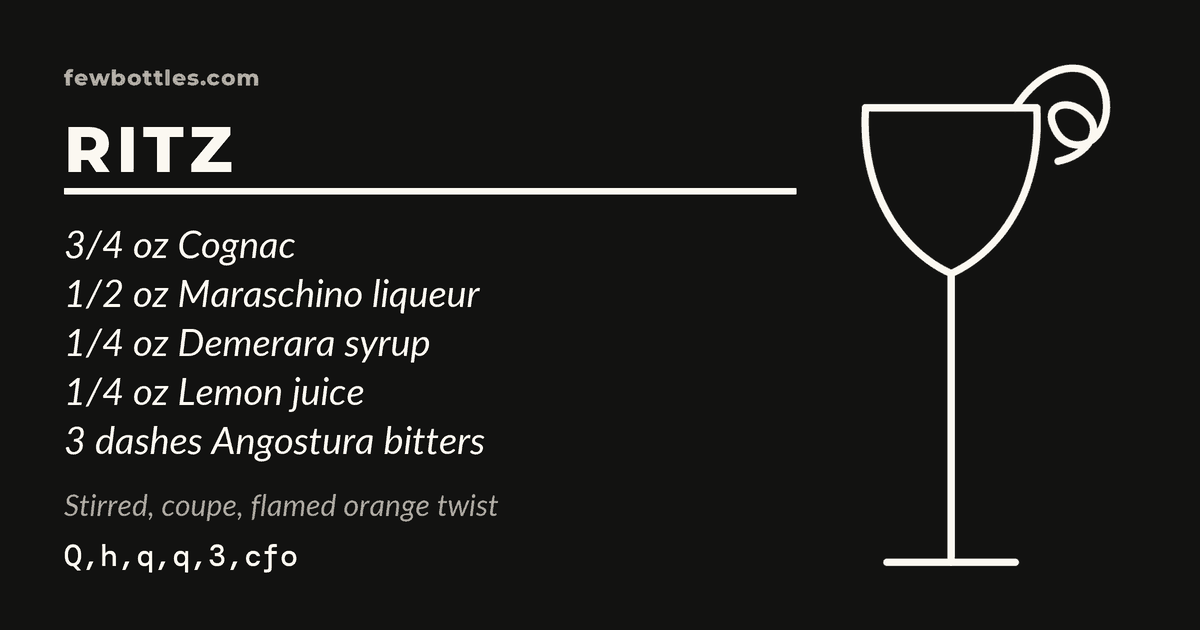
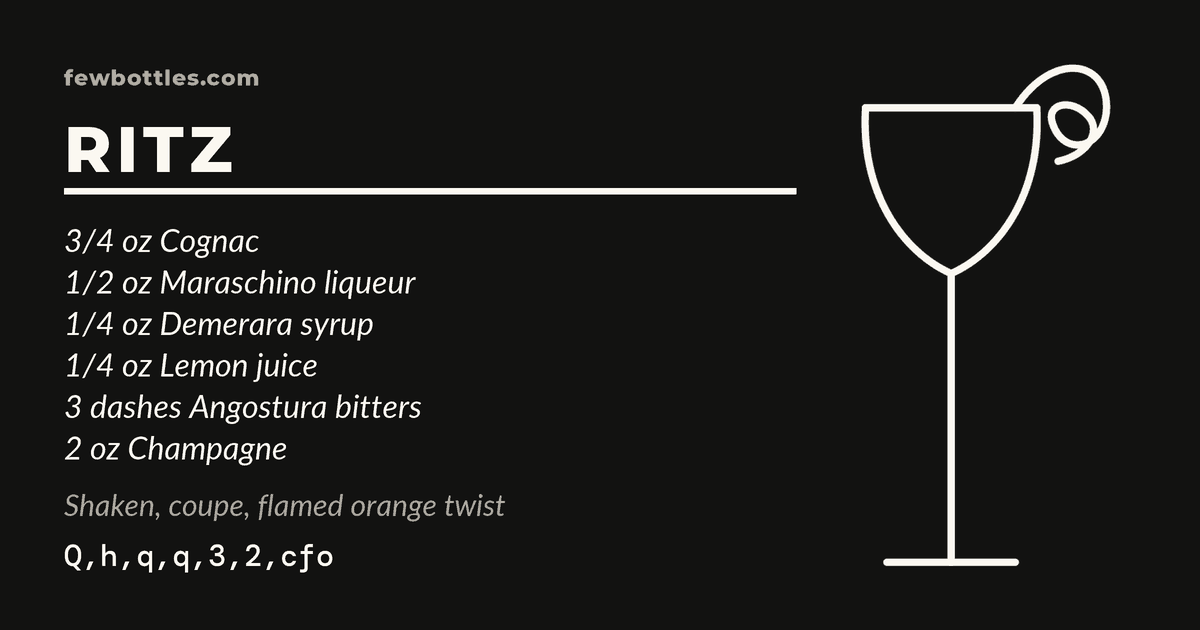
Restore the Ritz Champagne top, equal segments under 340px, amount column widths, side safe-area insets, storage event listener
data/cocktails.json: ritz is Q,h,q,q,3,2,cfo, method shaken, with 2 oz Champagne as the last pour; taste rewritten and one history sentence added; the entry moves into the shaken cognac section. kin.json (Ritz now Sparkling), llms.txt, llms-full.txt, 11 drink pages, sitemap.xml and assets/cards/ritz.png regenerated.

app.css: under 340px wide .seg--wide .seg__b tracking is .05em so the five segments are equal width; the stale Families comment now says Shapes. .pour amount column is 84px on screen and 54pt in print, eleven DM Mono advances for 2 barspoons. --pad is max(20px, env(safe-area-inset-left), env(safe-area-inset-right)) and .tabbar takes the side insets as padding-inline.

app.js: a storage listener added after boot reloads the five stores, re-applies print flags, drops Undo when the shelf or brands changed, and repaints through afterShelf; it never saves. loadPrintOpts reads a missing store as the defaults.

Closes #85. Closes #94. Closes #95. Closes #96. Closes #97.

Changed region(s): [[0.0308, 0.3619, 0.4008, 0.754], [0.0617, 0.7841, 0.4317, 0.8444], [0.185, 0.8746, 0.2775, 0.9048]]

diff --git a/drink/ritz/index.html b/drink/ritz/index.html
@@ -11,7 +11,7 @@ j=d.createElement(s),dl=l!='dataLayer'?'&l='+l:'';j.async=true;j.src=
 <!-- End Google Tag Manager -->
 <meta name="viewport" content="width=device-width, initial-scale=1, viewport-fit=cover">
 <title>Ritz, few bottles</title>
-<meta name="description" content="Ritz: 3/4 oz Cognac, 1/2 oz Maraschino liqueur, 1/4 oz Demerara syrup, 1/4 oz Lemon juice, 3 dashes Angostura bitters. Stirred, coupe, flamed orange twist.">
+<meta name="description" content="Ritz: 3/4 oz Cognac, 1/2 oz Maraschino liqueur, 1/4 oz Demerara syrup, 1/4 oz Lemon juice, 3 dashes Angostura bitters, 2 oz Champagne. Shaken, coupe, flamed orange twist.">
 <meta name="author" content="Craig Johnston">
 <meta name="robots" content="index, follow">
 <meta name="color-scheme" content="dark light">
@@ -26,20 +26,20 @@ j=d.createElement(s),dl=l!='dataLayer'?'&l='+l:'';j.async=true;j.src=
 <meta property="og:locale" content="en_US">
 <meta property="og:url" content="https://fewbottles.com/drink/ritz/">
 <meta property="og:title" content="Ritz">
-<meta property="og:description" content="Ritz: 3/4 oz Cognac, 1/2 oz Maraschino liqueur, 1/4 oz Demerara syrup, 1/4 oz Lemon juice, 3 dashes Angostura bitters. Stirred, coupe, flamed orange twist.">
+<meta property="og:description" content="Ritz: 3/4 oz Cognac, 1/2 oz Maraschino liqueur, 1/4 oz Demerara syrup, 1/4 oz Lemon juice, 3 dashes Angostura bitters, 2 oz Champagne. Shaken, coupe, flamed orange twist.">
 <meta property="og:image" content="https://fewbottles.com/assets/cards/ritz.png">
 <meta property="og:image:type" content="image/png">
 <meta property="og:image:width" content="1200">
 <meta property="og:image:height" content="630">
-<meta property="og:image:alt" content="Ritz, the recipe on a card: 3/4 oz Cognac, 1/2 oz Maraschino liqueur, 1/4 oz Demerara syrup, 1/4 oz Lemon juice, 3 dashes Angostura bitters, stirred, coupe, flamed orange twist.">
+<meta property="og:image:alt" content="Ritz, the recipe on a card: 3/4 oz Cognac, 1/2 oz Maraschino liqueur, 1/4 oz Demerara syrup, 1/4 oz Lemon juice, 3 dashes Angostura bitters, 2 oz Champagne, shaken, coupe, flamed orange twist.">
 <meta property="article:author" content="https://imti.co/">
 <meta name="twitter:card" content="summary_large_image">
 <meta name="twitter:site" content="@cjimti">
 <meta name="twitter:creator" content="@cjimti">
 <meta name="twitter:title" content="Ritz">
-<meta name="twitter:description" content="Ritz: 3/4 oz Cognac, 1/2 oz Maraschino liqueur, 1/4 oz Demerara syrup, 1/4 oz Lemon juice, 3 dashes Angostura bitters. Stirred, coupe, flamed orange twist.">
+<meta name="twitter:description" content="Ritz: 3/4 oz Cognac, 1/2 oz Maraschino liqueur, 1/4 oz Demerara syrup, 1/4 oz Lemon juice, 3 dashes Angostura bitters, 2 oz Champagne. Shaken, coupe, flamed orange twist.">
 <meta name="twitter:image" content="https://fewbottles.com/assets/cards/ritz.png">
-<meta name="twitter:image:alt" content="Ritz, the recipe on a card: 3/4 oz Cognac, 1/2 oz Maraschino liqueur, 1/4 oz Demerara syrup, 1/4 oz Lemon juice, 3 dashes Angostura bitters, stirred, coupe, flamed orange twist.">
+<meta name="twitter:image:alt" content="Ritz, the recipe on a card: 3/4 oz Cognac, 1/2 oz Maraschino liqueur, 1/4 oz Demerara syrup, 1/4 oz Lemon juice, 3 dashes Angostura bitters, 2 oz Champagne, shaken, coupe, flamed orange twist.">
 <script type="application/ld+json">
 {
   "@context": "https://schema.org",
@@ -50,7 +50,7 @@ j=d.createElement(s),dl=l!='dataLayer'?'&l='+l:'';j.async=true;j.src=
       "name": "Ritz",
       "url": "https://fewbottles.com/drink/ritz/",
       "image": "https://fewbottles.com/assets/cards/ritz.png",
-      "description": "Ritz: 3/4 oz Cognac, 1/2 oz Maraschino liqueur, 1/4 oz Demerara syrup, 1/4 oz Lemon juice, 3 dashes Angostura bitters. Stirred, coupe, flamed orange twist.",
+      "description": "Ritz: 3/4 oz Cognac, 1/2 oz Maraschino liqueur, 1/4 oz Demerara syrup, 1/4 oz Lemon juice, 3 dashes Angostura bitters, 2 oz Champagne. Shaken, coupe, flamed orange twist.",
       "author": {
         "@id": "https://fewbottles.com/#person"
       },
@@ -64,19 +64,20 @@ j=d.createElement(s),dl=l!='dataLayer'?'&l='+l:'';j.async=true;j.src=
         "1/2 oz Maraschino liqueur",
         "1/4 oz Demerara syrup",
         "1/4 oz Lemon juice",
-        "3 dashes Angostura bitters"
+        "3 dashes Angostura bitters",
+        "2 oz Champagne"
       ],
       "recipeInstructions": [
         {
           "@type": "HowToStep",
-          "text": "Stir with ice until cold, then strain."
+          "text": "Shake hard with ice, then strain."
         },
         {
           "@type": "HowToStep",
           "text": "Serve: coupe, flamed orange twist."
         }
       ],
-      "keywords": "Cognac, stirred, Daisy"
+      "keywords": "Cognac, shaken, Sparkling"
     },
     {
       "@type": "Person",
@@ -138,26 +139,27 @@ height="0" width="0" style="display:none;visibility:hidden"></iframe></noscript>
 </header>
 <main id="main" class="page__main">
 <article class="page__drink">
-  <p class="page__eyebrow">Cognac, stirred</p>
+  <p class="page__eyebrow">Cognac, shaken</p>
   <h1 class="page__name">Ritz</h1>
-  <p class="page__code"><span class="sr-only">Barline </span>Q,h,q,q,3,cfo</p>
+  <p class="page__code"><span class="sr-only">Barline </span>Q,h,q,q,3,2,cfo</p>
   <ul class="page__pours">
       <li>3/4 oz Cognac</li>
       <li>1/2 oz Maraschino liqueur</li>
       <li>1/4 oz Demerara syrup</li>
       <li>1/4 oz Lemon juice</li>
       <li>3 dashes Angostura bitters</li>
+      <li>2 oz Champagne</li>
     </ul>
-  <p class="page__method">Stir with ice until cold, then strain.</p>
+  <p class="page__method">Shake hard with ice, then strain.</p>
   <p class="page__serve">Coupe, flamed orange twist.</p>
   <p class="page__open"><a class="btn" href="/#drink/ritz">Open in the menu</a></p>
   <section class="page__section">
     <h2>Taste</h2>
-    <p>Three-quarters of an ounce of cognac, so this is a small drink. Half an ounce of maraschino is the sweet and the cherry; a quarter each of demerara and lemon. Three dashes of Angostura is a lot of bark for so little spirit. Stirred, coupe, flamed orange twist.</p>
+    <p>Three-quarters of an ounce of cognac, half an ounce of maraschino for the sweet and the cherry, a quarter each of demerara and lemon, three dashes of Angostura. Shaken, then two ounces of Champagne, so the wine is the biggest pour in the glass. Coupe, flamed orange twist. Dry and bubbly, cherry and bark over a little brandy, with burnt orange on the surface.</p>
   </section>
   <section class="page__section">
     <h2>History</h2>
-    <p>Dale DeGroff built a Ritz Cocktail at Aurora in New York in 1985, later printed in The Craft of the Cocktail (2002) as a tribute to the Ritz drinks of Paris and Madrid: three-quarters cognac, half orange liqueur, a quarter each of maraschino and lemon, topped with Champagne, and a flamed orange twist. This menu keeps the small cognac, the maraschino, the lemon, and the flamed twist. It drops the Champagne and the orange liqueur, adds a quarter of demerara and three dashes of Angostura, and stirs it.</p>
+    <p>Dale DeGroff built a Ritz Cocktail at Aurora in New York in 1985, later printed in The Craft of the Cocktail (2002) as a tribute to the Ritz drinks of Paris and Madrid: three-quarters cognac, half orange liqueur, a quarter each of maraschino and lemon, topped with Champagne, and a flamed orange twist. This menu keeps the small cognac, the maraschino, the lemon, the Champagne, and the flamed twist. It drops the orange liqueur and adds a quarter of demerara and three dashes of Angostura. The printed card left the Champagne off, and the menu restored it in 2026, because three-quarters of an ounce of cognac is DeGroff&#x27;s measure for a drink with two ounces of wine on top.</p>
     <ul class="recipe-refs">
       <li><a href="https://imbibemagazine.com/recipe/ritz-cocktail/" rel="noopener">Imbibe, Ritz Cocktail</a></li>
       <li><a href="https://www.diffordsguide.com/cocktails/recipe/1677/ritz-cocktail" rel="noopener">Difford&#x27;s Guide, Ritz Cocktail</a></li>
@@ -165,14 +167,14 @@ height="0" width="0" style="display:none;visibility:hidden"></iframe></noscript>
   </section>
   <section class="page__section">
     <h2>Same shape, other bottles</h2>
-    <p class="page__note">The Daisy family, with the bottle that changed.</p>
+    <p class="page__note">The Sparkling family, with the bottle that changed.</p>
     <ul class="page__kin">
-    <li><a href="/drink/honeymoon/">Honeymoon</a><span class="page__why">apple brandy, Bénédictine, and orange liqueur for cognac and maraschino liqueur</span></li>
-    <li><a href="/drink/champs-elysees/">Champs-Élysées</a><span class="page__why">Chartreuse and simple syrup for maraschino liqueur and demerara syrup</span></li>
-    <li><a href="/drink/fine-and-dandy/">Fine and Dandy</a><span class="page__why">gin and orange liqueur for cognac and maraschino liqueur</span></li>
-    <li><a href="/drink/pegu-club/">Pegu Club</a><span class="page__why">gin and lime juice for cognac and lemon juice</span></li>
-    <li><a href="/drink/brandy-crusta/">Brandy Crusta</a><span class="page__why">more cognac</span></li>
-    <li><a href="/drink/kings-jubilee/">King&#x27;s Jubilee</a><span class="page__why">light rum for cognac</span></li>
+    <li><a href="/drink/old-cuban/">Old Cuban</a><span class="page__why">aged rum and lime juice for cognac and lemon juice</span></li>
+    <li><a href="/drink/air-mail/">Air Mail</a><span class="page__why">aged rum and lime juice for cognac and lemon juice</span></li>
+    <li><a href="/drink/queen-bee/">Queen Bee</a><span class="page__why">vodka and elderflower liqueur for cognac and maraschino liqueur</span></li>
+    <li><a href="/drink/french-75/">French 75</a><span class="page__why">gin and simple syrup for cognac and demerara syrup</span></li>
+    <li><a href="/drink/seelbach/">Seelbach</a><span class="page__why">bourbon and orange liqueur for cognac and maraschino liqueur</span></li>
+    <li><a href="/drink/champagne-cocktail/">Champagne Cocktail</a><span class="page__why">without lemon juice and maraschino liqueur</span></li>
     </ul>
   </section>
   <p class="page__all"><a href="/">All 185 drinks</a>, and which ones your own shelf pours.</p>

diff --git a/assets/app.css b/assets/app.css
@@ -199,7 +199,11 @@
   --body: "Lato", -apple-system, BlinkMacSystemFont, "Segoe UI", Roboto, sans-serif;
   --mono: "DM Mono", ui-monospace, SFMono-Regular, Menlo, monospace;
 
-  --pad: 20px;
+  /* Every page asks for viewport-fit=cover, so a phone on its side draws
+     under the notch and leaves the inset to the page. All side padding
+     reads this one token, so it clears the inset on both sides. With no
+     inset (a desktop, paper) it is 20px, as it always was. */
+  --pad: max(20px, env(safe-area-inset-left), env(safe-area-inset-right));
   --measure: 660px;
   /* The wide layout is two fixed tracks, not a column that stretches. A
      drink row is a name on the left and its code on the right, and past
@@ -673,13 +677,21 @@ noscript.fallback a { color: var(--brass); }
 .seg__b:last-child { border-right: 0; }
 .seg__b.is-on { background: var(--bone); color: var(--ground); }
 
-/* Five segments (All / Stirred / Shaken / Built / Families) on a phone.
-   Tracking drops a little so FAMILIES still sits on one line: the five
-   need 313px of the 350px a 390 wide phone leaves inside the padding. */
+/* Five segments (All / Stirred / Shaken / Built / Shapes) on a phone.
+   Tracking drops a little so the five sit on one line in the 348px a
+   390 wide phone leaves inside the padding. */
 .seg--wide .seg__b {
   letter-spacing: .11em;
   font-size: 10px;
   padding: 9px 2px;
+}
+
+/* Under about 330px wide, STIRRED at that tracking needs 57px and an even
+   fifth of the row is less, so flex hands out five unequal buttons and
+   the longest labels touch their rules. Tighter tracking gives the room
+   back without shrinking the type. */
+@media (max-width: 339px) {
+  .seg--wide .seg__b { letter-spacing: .05em; }
 }
 
 .search {
@@ -1094,7 +1106,9 @@ noscript.fallback a { color: var(--brass); }
 
 .pour {
   display: grid;
-  grid-template-columns: 74px 1fr;
+  /* Eleven DM Mono advances at the amount's 12.5px: `2 barspoons` is
+     the longest amount the decoder writes, and a mono advance is .6em. */
+  grid-template-columns: 84px 1fr;
   gap: 0 12px;
   padding: 6px 0;
   border-bottom: 1px solid var(--hair);
@@ -2131,6 +2145,7 @@ a.btn { display: inline-block; text-decoration: none; line-height: normal; }
   display: flex;
   height: calc(var(--tabbar-h) + env(safe-area-inset-bottom));
   padding-bottom: env(safe-area-inset-bottom);
+  padding-inline: env(safe-area-inset-left) env(safe-area-inset-right);
   background: var(--ground);
   border-top: 1px solid var(--rule);
 }
@@ -3133,7 +3148,9 @@ body.page .topbar { position: sticky; top: 0; }
     margin: 0;
   }
   .print-card .pour {
-    grid-template-columns: 5.2em 1fr;
+    /* Eleven DM Mono advances at the 8pt amount is 52.8pt, which is
+       `2 barspoons`. An em here is the row's 10pt, not the amount's. */
+    grid-template-columns: 54pt 1fr;
     padding: 2.5pt 0;
     gap: 0 8px;
   }

diff --git a/assets/app.js b/assets/app.js
@@ -357,8 +357,10 @@
 
   function loadPrintOpts() {
     try {
-      var o = JSON.parse(localStorage.getItem(PRINT_STORE) || 'null');
-      if (o && typeof o === 'object') {
+      /* No store reads as the defaults, not as whatever was held last:
+         another tab clearing storage lands here too. */
+      var o = JSON.parse(localStorage.getItem(PRINT_STORE) || 'null') || {};
+      if (typeof o === 'object') {
         printOpts.icon = o.icon !== false;
         printOpts.recipe = !!o.recipe;
         printOpts.taste = !!o.taste;
@@ -3345,6 +3347,27 @@
     $('#main').scrollTop = y;
   }
 
+  /* Another tab of the site wrote a store. Each tab reads storage once at
+     boot, so without this the stale tab shows the old shelf and its next
+     tick writes the old shelf back over the new one. Read everything
+     again and repaint. Nothing here saves: a write fires this event in
+     the other tab, and two tabs would answer each other for ever. An
+     Undo snapshot is from before the other tab's change, so it goes. */
+  var STORES = [STORE, BRAND_STORE, TITLE_STORE, PRINT_STORE, INTRO_STORE];
+
+  function storesChanged(e) {
+    if (e.key !== null && STORES.indexOf(e.key) < 0) return;
+    loadHave();
+    loadOwn();
+    loadMenuTitle();
+    loadPrintOpts();
+    loadIntro();
+    applyPrintFlags();
+    syncHaveFromBrands();
+    if (e.key === null || e.key === STORE || e.key === BRAND_STORE) dropUndo();
+    afterShelf(true);
+  }
+
   /* Every figure on the shelf is relative to what is stocked, so selecting
      one rewrites the whole list. Put the scroll back where it was, or the
      row you just selected leaves the screen under your finger. */
@@ -3916,6 +3939,7 @@
     showVersion();
     repaintMenu();
     route();
+    window.addEventListener('storage', storesChanged);
   }).catch(function (err) {
     $('#loading').textContent = 'Could not load the menu. ' + err;
   });

diff --git a/drink/queen-bee/index.html b/drink/queen-bee/index.html
@@ -167,12 +167,12 @@ height="0" width="0" style="display:none;visibility:hidden"></iframe></noscript>
     <h2>Same shape, other bottles</h2>
     <p class="page__note">The Sparkling family, with the bottle that changed.</p>
     <ul class="page__kin">
+    <li><a href="/drink/ritz/">Ritz</a><span class="page__why">cognac and maraschino liqueur for vodka and elderflower liqueur</span></li>
     <li><a href="/drink/air-mail/">Air Mail</a><span class="page__why">aged rum and lime juice for vodka and lemon juice</span></li>
     <li><a href="/drink/old-cuban/">Old Cuban</a><span class="page__why">aged rum and lime juice for vodka and lemon juice</span></li>
     <li><a href="/drink/seelbach/">Seelbach</a><span class="page__why">bourbon and orange liqueur for vodka and elderflower liqueur</span></li>
     <li><a href="/drink/champagne-cocktail/">Champagne Cocktail</a><span class="page__why">cognac for vodka</span></li>
     <li><a href="/drink/death-in-the-afternoon/">Death in the Afternoon</a><span class="page__why">with absinthe</span></li>
-    <li><a href="/drink/french-75/">French 75</a><span class="page__why">gin and simple syrup for vodka and honey syrup</span></li>
     </ul>
   </section>
   <p class="page__all"><a href="/">All 185 drinks</a>, and which ones your own shelf pours.</p>

diff --git a/drink/old-cuban/index.html b/drink/old-cuban/index.html
@@ -169,11 +169,11 @@ height="0" width="0" style="display:none;visibility:hidden"></iframe></noscript>
     <p class="page__note">The Sparkling family, with the bottle that changed.</p>
     <ul class="page__kin">
     <li><a href="/drink/air-mail/">Air Mail</a><span class="page__why">honey syrup for simple syrup</span></li>
+    <li><a href="/drink/ritz/">Ritz</a><span class="page__why">cognac and lemon juice for aged rum and lime juice</span></li>
     <li><a href="/drink/french-75/">French 75</a><span class="page__why">gin and lemon juice for aged rum and lime juice</span></li>
     <li><a href="/drink/queen-bee/">Queen Bee</a><span class="page__why">vodka and lemon juice for aged rum and lime juice</span></li>
     <li><a href="/drink/seelbach/">Seelbach</a><span class="page__why">bourbon for aged rum</span></li>
     <li><a href="/drink/champagne-cocktail/">Champagne Cocktail</a><span class="page__why">cognac for aged rum</span></li>
-    <li><a href="/drink/death-in-the-afternoon/">Death in the Afternoon</a><span class="page__why">with absinthe</span></li>
     </ul>
   </section>
   <p class="page__all"><a href="/">All 185 drinks</a>, and which ones your own shelf pours.</p>

diff --git a/drink/french-75/index.html b/drink/french-75/index.html
@@ -167,10 +167,10 @@ height="0" width="0" style="display:none;visibility:hidden"></iframe></noscript>
     <ul class="page__kin">
     <li><a href="/drink/air-mail/">Air Mail</a><span class="page__why">aged rum and lime juice for gin and lemon juice</span></li>
     <li><a href="/drink/old-cuban/">Old Cuban</a><span class="page__why">aged rum and lime juice for gin and lemon juice</span></li>
+    <li><a href="/drink/ritz/">Ritz</a><span class="page__why">cognac and demerara syrup for gin and simple syrup</span></li>
     <li><a href="/drink/queen-bee/">Queen Bee</a><span class="page__why">vodka and honey syrup for gin and simple syrup</span></li>
     <li><a href="/drink/seelbach/">Seelbach</a><span class="page__why">bourbon for gin</span></li>
     <li><a href="/drink/champagne-cocktail/">Champagne Cocktail</a><span class="page__why">cognac for gin</span></li>
-    <li><a href="/drink/death-in-the-afternoon/">Death in the Afternoon</a><span class="page__why">with absinthe</span></li>
     </ul>
   </section>
   <p class="page__all"><a href="/">All 185 drinks</a>, and which ones your own shelf pours.</p>

diff --git a/drink/air-mail/index.html b/drink/air-mail/index.html
@@ -167,10 +167,10 @@ height="0" width="0" style="display:none;visibility:hidden"></iframe></noscript>
     <ul class="page__kin">
     <li><a href="/drink/old-cuban/">Old Cuban</a><span class="page__why">simple syrup for honey syrup</span></li>
     <li><a href="/drink/french-75/">French 75</a><span class="page__why">gin and lemon juice for aged rum and lime juice</span></li>
+    <li><a href="/drink/ritz/">Ritz</a><span class="page__why">cognac and lemon juice for aged rum and lime juice</span></li>
     <li><a href="/drink/queen-bee/">Queen Bee</a><span class="page__why">vodka and lemon juice for aged rum and lime juice</span></li>
     <li><a href="/drink/seelbach/">Seelbach</a><span class="page__why">bourbon for aged rum</span></li>
     <li><a href="/drink/champagne-cocktail/">Champagne Cocktail</a><span class="page__why">cognac for aged rum</span></li>
-    <li><a href="/drink/death-in-the-afternoon/">Death in the Afternoon</a><span class="page__why">with absinthe</span></li>
     </ul>
   </section>
   <p class="page__all"><a href="/">All 185 drinks</a>, and which ones your own shelf pours.</p>

diff --git a/drink/honeymoon/index.html b/drink/honeymoon/index.html
@@ -171,8 +171,8 @@ height="0" width="0" style="display:none;visibility:hidden"></iframe></noscript>
     <li><a href="/drink/pegu-club/">Pegu Club</a><span class="page__why">gin and lime juice for apple brandy and lemon juice</span></li>
     <li><a href="/drink/champs-elysees/">Champs-Élysées</a><span class="page__why">cognac and Chartreuse for apple brandy, Bénédictine, and orange liqueur</span></li>
     <li><a href="/drink/pendennis-club/">Pendennis Club</a><span class="page__why">gin and lime juice for apple brandy and lemon juice</span></li>
-    <li><a href="/drink/ritz/">Ritz</a><span class="page__why">cognac and maraschino liqueur for apple brandy, Bénédictine, and orange liqueur</span></li>
     <li><a href="/drink/katinka/">Katinka</a><span class="page__why">vodka and lime juice for apple brandy and lemon juice</span></li>
+    <li><a href="/drink/lani-honi/">Lani-Honi</a><span class="page__why">light rum for apple brandy</span></li>
     </ul>
   </section>
   <p class="page__all"><a href="/">All 185 drinks</a>, and which ones your own shelf pours.</p>

diff --git a/drink/seelbach/index.html b/drink/seelbach/index.html
@@ -170,8 +170,8 @@ height="0" width="0" style="display:none;visibility:hidden"></iframe></noscript>
     <li><a href="/drink/death-in-the-afternoon/">Death in the Afternoon</a><span class="page__why">with absinthe</span></li>
     <li><a href="/drink/queen-bee/">Queen Bee</a><span class="page__why">vodka and elderflower liqueur for bourbon and orange liqueur</span></li>
     <li><a href="/drink/negroni-sbagliato/">Negroni Sbagliato</a><span class="page__why">with sweet vermouth and Campari</span></li>
+    <li><a href="/drink/ritz/">Ritz</a><span class="page__why">cognac and maraschino liqueur for bourbon and orange liqueur</span></li>
     <li><a href="/drink/old-cuban/">Old Cuban</a><span class="page__why">aged rum for bourbon</span></li>
-    <li><a href="/drink/air-mail/">Air Mail</a><span class="page__why">aged rum for bourbon</span></li>
     </ul>
   </section>
   <p class="page__all"><a href="/">All 185 drinks</a>, and which ones your own shelf pours.</p>

diff --git a/drink/champs-elysees/index.html b/drink/champs-elysees/index.html
@@ -171,7 +171,7 @@ height="0" width="0" style="display:none;visibility:hidden"></iframe></noscript>
     <li><a href="/drink/honeymoon/">Honeymoon</a><span class="page__why">apple brandy, Bénédictine, and orange liqueur for cognac and Chartreuse</span></li>
     <li><a href="/drink/brandy-crusta/">Brandy Crusta</a><span class="page__why">maraschino liqueur and demerara syrup for Chartreuse and simple syrup</span></li>
     <li><a href="/drink/pendennis-club/">Pendennis Club</a><span class="page__why">gin and lime juice for cognac and lemon juice</span></li>
-    <li><a href="/drink/ritz/">Ritz</a><span class="page__why">maraschino liqueur and demerara syrup for Chartreuse and simple syrup</span></li>
+    <li><a href="/drink/brass-rail/">Brass Rail</a><span class="page__why">aged rum and Bénédictine for cognac and Chartreuse</span></li>
     </ul>
   </section>
   <p class="page__all"><a href="/">All 185 drinks</a>, and which ones your own shelf pours.</p>

diff --git a/drink/death-in-the-afternoon/index.html b/drink/death-in-the-afternoon/index.html
@@ -164,8 +164,8 @@ height="0" width="0" style="display:none;visibility:hidden"></iframe></noscript>
     <li><a href="/drink/negroni-sbagliato/">Negroni Sbagliato</a><span class="page__why">with sweet vermouth and Campari</span></li>
     <li><a href="/drink/seelbach/">Seelbach</a><span class="page__why">with bourbon and orange liqueur</span></li>
     <li><a href="/drink/queen-bee/">Queen Bee</a><span class="page__why">with vodka and lemon juice</span></li>
+    <li><a href="/drink/ritz/">Ritz</a><span class="page__why">with cognac and lemon juice</span></li>
     <li><a href="/drink/air-mail/">Air Mail</a><span class="page__why">with aged rum and lime juice</span></li>
-    <li><a href="/drink/old-cuban/">Old Cuban</a><span class="page__why">with aged rum and lime juice</span></li>
     </ul>
   </section>
   <p class="page__all"><a href="/">All 185 drinks</a>, and which ones your own shelf pours.</p>

diff --git a/drink/champagne-cocktail/index.html b/drink/champagne-cocktail/index.html
@@ -168,8 +168,8 @@ height="0" width="0" style="display:none;visibility:hidden"></iframe></noscript>
     <li><a href="/drink/death-in-the-afternoon/">Death in the Afternoon</a><span class="page__why">with absinthe</span></li>
     <li><a href="/drink/negroni-sbagliato/">Negroni Sbagliato</a><span class="page__why">with sweet vermouth and Campari</span></li>
     <li><a href="/drink/queen-bee/">Queen Bee</a><span class="page__why">vodka for cognac</span></li>
+    <li><a href="/drink/ritz/">Ritz</a><span class="page__why">with lemon juice and maraschino liqueur</span></li>
     <li><a href="/drink/old-cuban/">Old Cuban</a><span class="page__why">aged rum for cognac</span></li>
-    <li><a href="/drink/air-mail/">Air Mail</a><span class="page__why">aged rum for cognac</span></li>
     </ul>
   </section>
   <p class="page__all"><a href="/">All 185 drinks</a>, and which ones your own shelf pours.</p>
